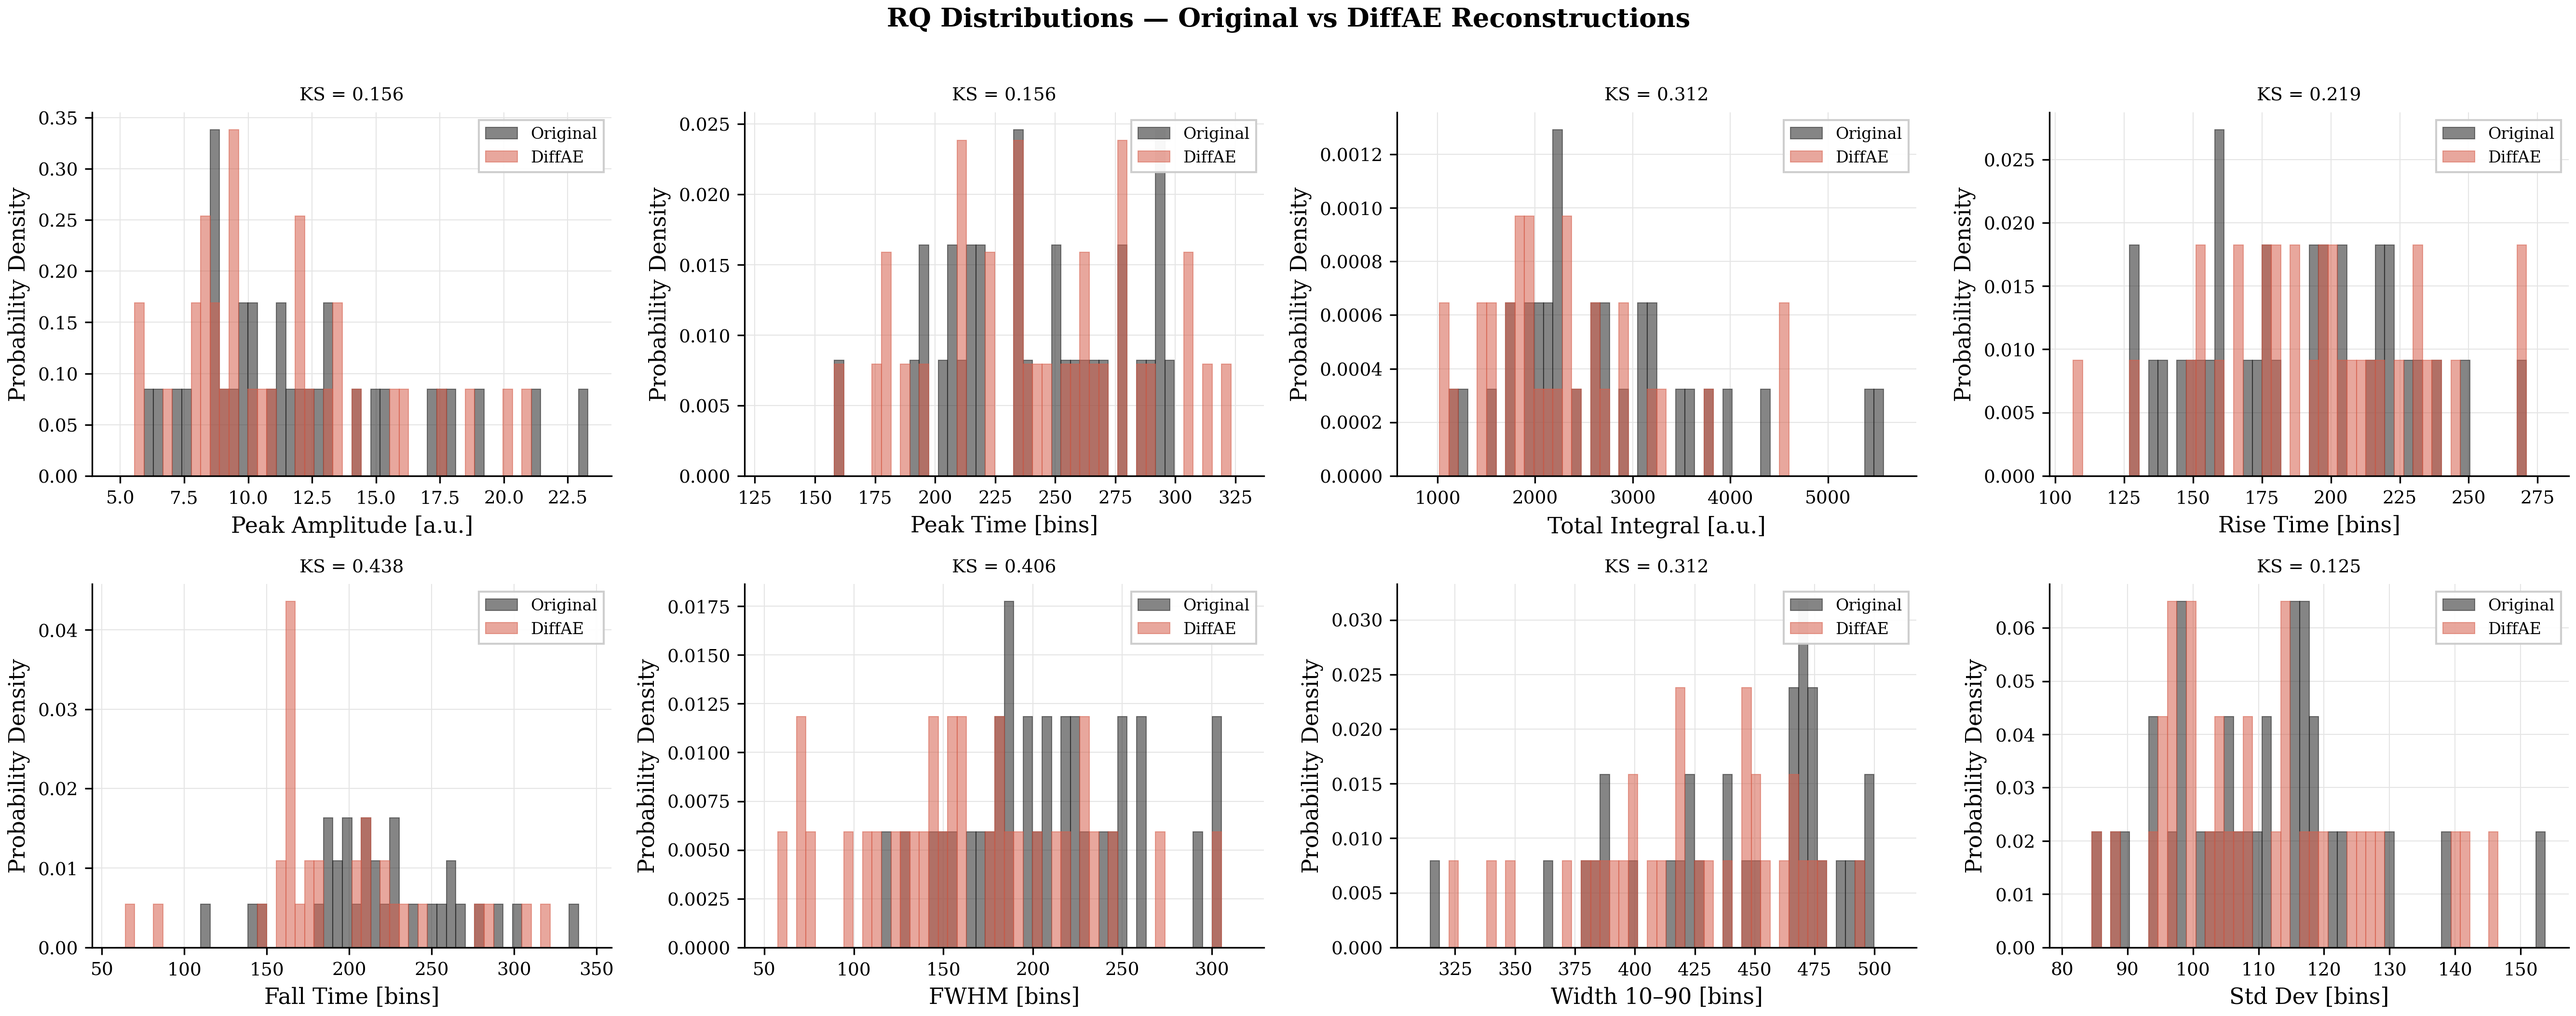
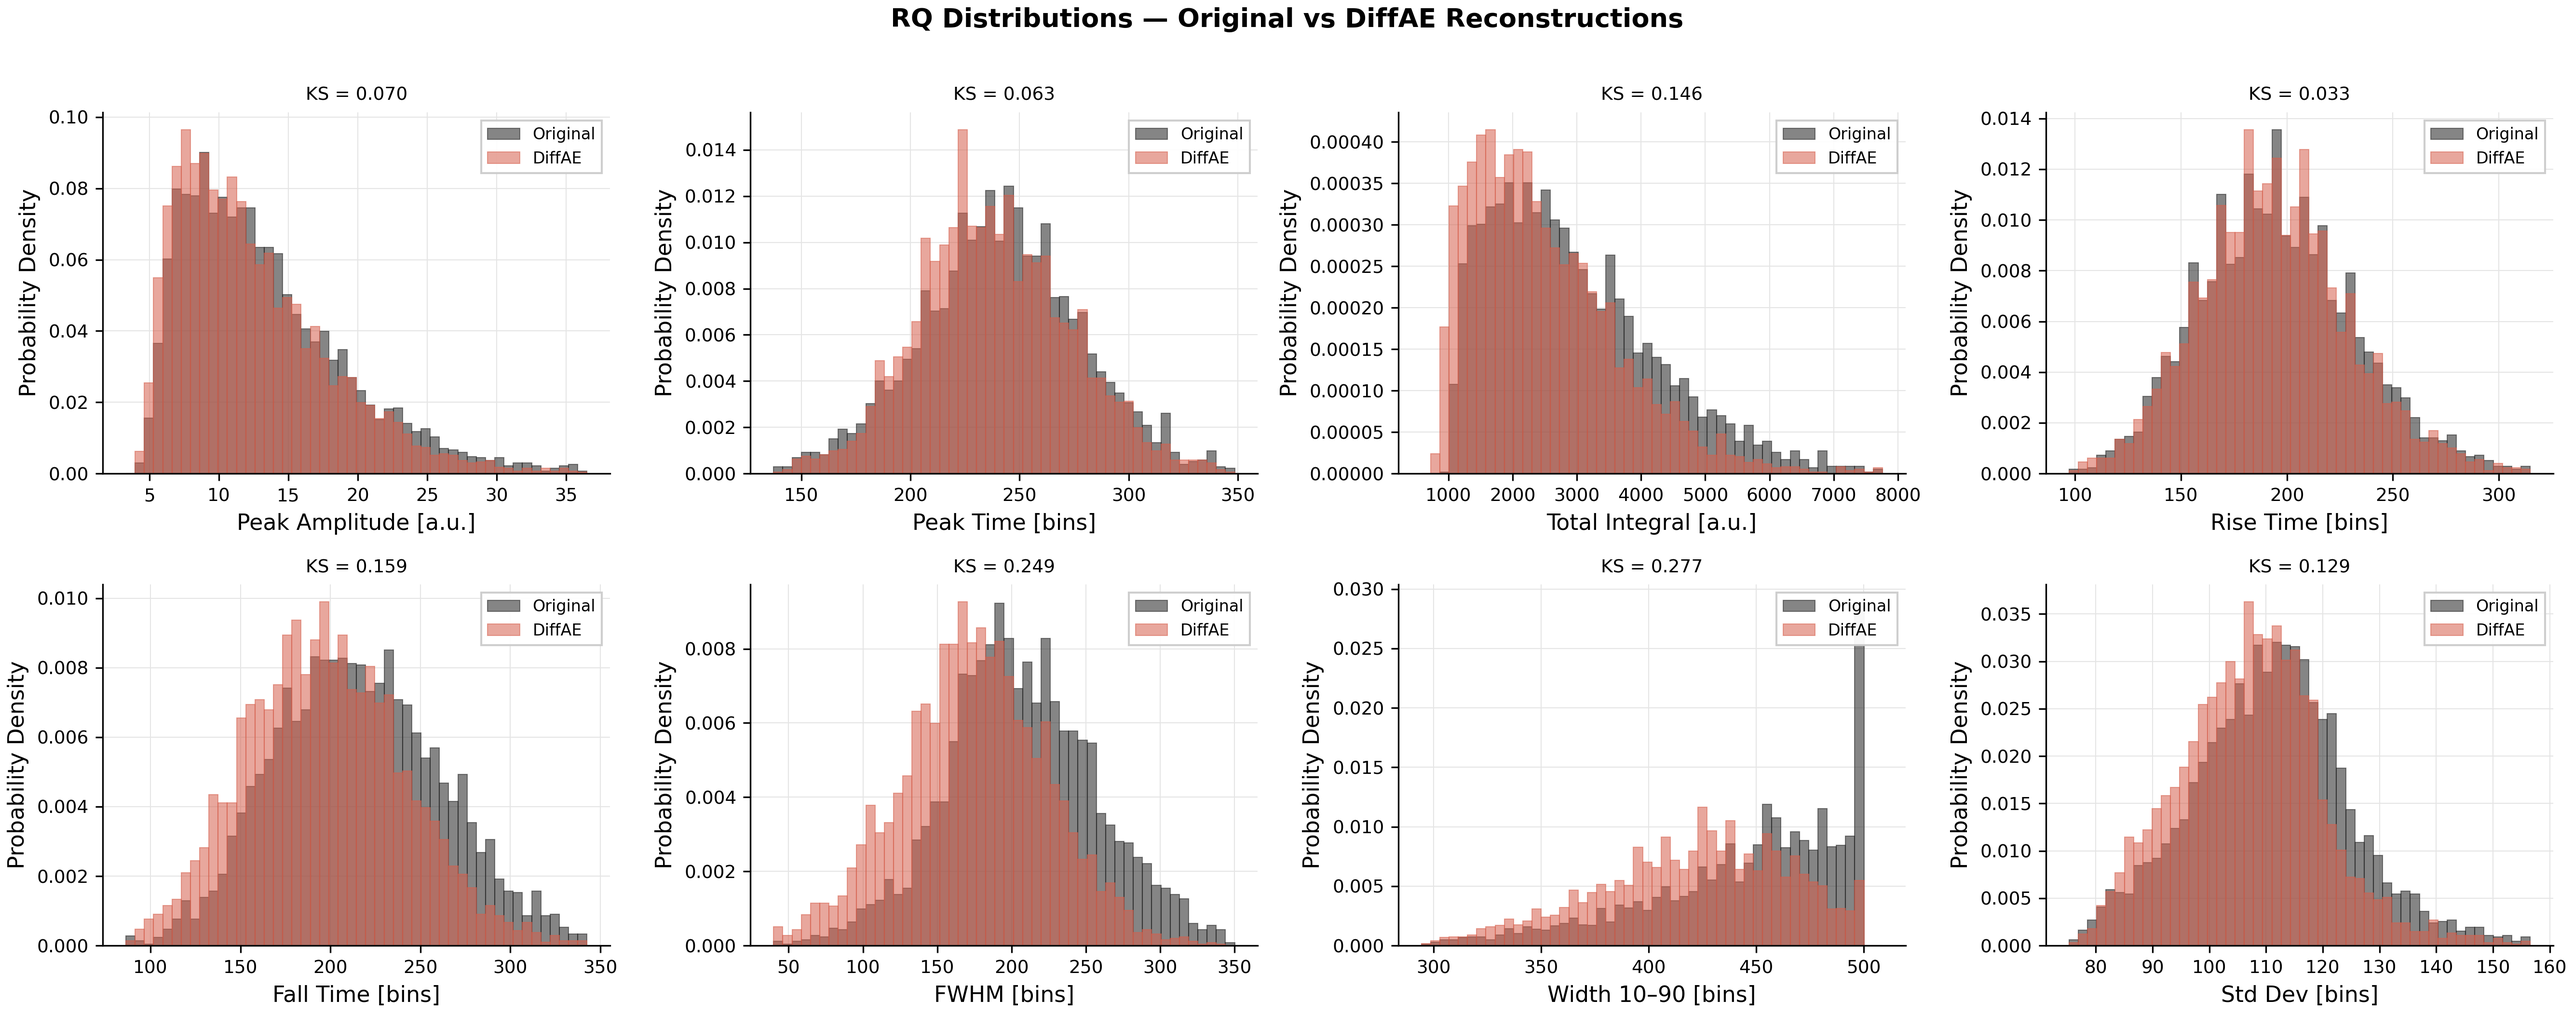
fix

diff --git a/eval_recon.py b/eval_recon.py
@@ -316,7 +316,8 @@ def reconstruct_graphae_batch(
     x_norm: torch.Tensor,   # (B, N, 1)
 ) -> np.ndarray:
     """Returns (B, N) denormalised."""
-    rec = reconstruct_graphae(ctx.ema_model, ctx.A_sparse, ctx.pos, x_norm)  # (B, 1, N)
+    model = ctx.ema_model if ctx.ema_model is not None else ctx.model
+    rec = reconstruct_graphae(model, ctx.A_sparse, ctx.pos, x_norm)  # (B, 1, N)
     rec_np = ctx.data_stats.denormalize(rec.cpu().numpy()[:, 0, :])           # (B, N)
     return np.clip(rec_np, 0, None)
 
@@ -563,8 +564,7 @@ def load_graphae(cfg: Config, device: torch.device) -> Optional[GraphAEContext]:
             print(f"  GraphAE: loaded epoch {epoch} from {os.path.basename(ckpt)}"
                   f"  (latent_dim={ldim})")
             model = ctx.ema_model if ctx.ema_model is not None else ctx.model
-            ctx.model = model
-            ctx.model.eval()
+            model.eval()
             return ctx
 
     print(
